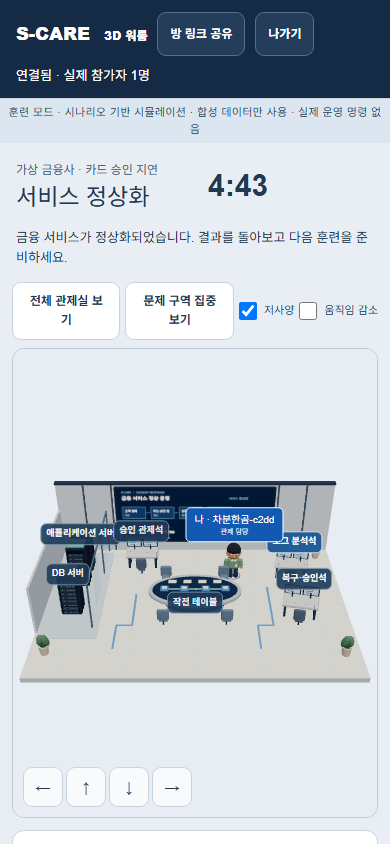
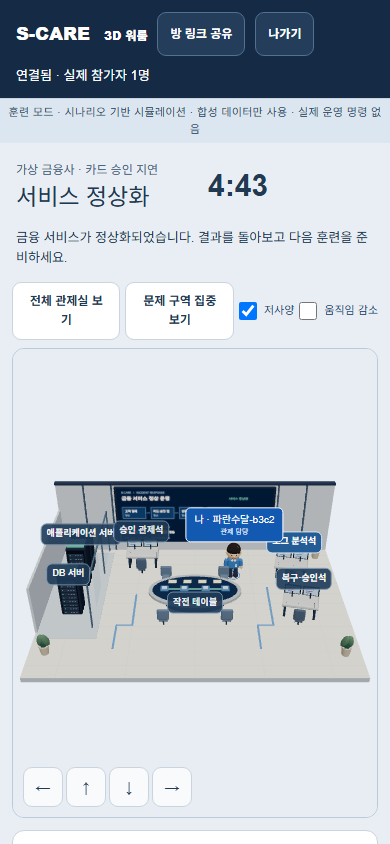
Keep room participants visually distinct across reconnects

diff --git a/frontend/tests/city-live.spec.ts b/frontend/tests/city-live.spec.ts
@@ -16,6 +16,7 @@ test('two independent contexts share city, clues and timer; isolate rooms, dupli
   const pa=await a.newPage(),pb=await b.newPage(),pc=await c.newPage();for(const p of [pa,pb,pc])p.on('pageerror',e=>errors.push(e.message));
   await join(pa,'관제 하나','카드 운영팀');await join(pb,'분석 둘','카드 운영팀');await join(pc,'다른 방','separate');
   for(const p of [pa,pb]){await expect(p.locator('[data-player-id]')).toHaveCount(2);for(const avatar of await p.locator('[data-player-id]').all())await expect(avatar).toBeVisible();}await expect(pc.locator('[data-player-id]')).toHaveCount(1);
+  const appearance=await pa.locator('.wr-name.self').getAttribute('data-appearance');expect(await pb.locator('.wr-name.self').getAttribute('data-appearance')).not.toBe(appearance);
   const autoName=await pa.locator('.wr-name.self').innerText();expect(await pb.locator('.wr-name.self').innerText()).not.toBe(autoName);
   const chatRevision=await pa.evaluate(()=>(window as any).__cityTraining.revision);await pa.getByLabel('팀에게 메시지',{exact:true}).fill('DB는 정상입니다. 배포 로그를 확인해 주세요.');await pa.getByRole('button',{name:'보내기',exact:true}).click();await expect(pb.getByRole('log',{name:'팀 대화 기록'})).toContainText('DB는 정상입니다.');await expect(pb.locator('.mc-speech')).toContainText('DB는 정상입니다.');await expect(pc.getByRole('log',{name:'팀 대화 기록'})).not.toContainText('DB는 정상입니다.');expect(await pa.evaluate(()=>(window as any).__cityTraining.revision)).toBe(chatRevision);await pb.evaluate(()=>window.scrollTo(0,0));await pb.screenshot({path:'test-results/mission-control-chat.png',fullPage:true});
   const id=await pa.locator('.wr-name.self').getAttribute('data-player-id'),remote=pb.locator(`[data-player-id="${id}"]`),before=await remote.getAttribute('data-position');await pa.locator('h1').click();await pa.keyboard.down('d');await expect.poll(()=>remote.getAttribute('data-position')).not.toBe(before);await pa.keyboard.up('d');
@@ -32,7 +33,7 @@ test('two independent contexts share city, clues and timer; isolate rooms, dupli
   await pa.getByRole('button',{name:'여기 확인해 주세요',exact:true}).click();await expect.poll(()=>pb.evaluate(()=>(window as any).__cityTraining.pings.length)).toBe(1);
   await pa.screenshot({path:'test-results/city-team-clues.png'});
   const late=await c.newPage();await join(late,'중간 합류','카드 운영팀','CAUSE');await expect(late.locator('.city-clue.shared')).toHaveCount(4);expect(await late.evaluate(()=>(window as any).__cityTraining.deadline)).toBe(await pa.evaluate(()=>(window as any).__cityTraining.deadline));await late.close();
-  await pa.evaluate(()=>(window as any).__citySockets.at(-1).close());await expect(pa.locator('.city-connection')).toContainText('재접속');await expect(pa.locator('.city-connection')).toContainText('연결됨',{timeout:20000});await stage(pa,'CAUSE');await expect(pa.getByRole('log',{name:'팀 대화 기록'})).toContainText('DB는 정상입니다.');expect(await pa.locator('.wr-name.self').innerText()).toBe(autoName);await expect(pa.locator('.city-clue.shared')).toHaveCount(4);expect(await pa.locator('.wr-name.self').getAttribute('data-player-id')).toBe(id);
+  await pa.evaluate(()=>(window as any).__citySockets.at(-1).close());await expect(pa.locator('.city-connection')).toContainText('재접속');await expect(pa.locator('.city-connection')).toContainText('연결됨',{timeout:20000});await stage(pa,'CAUSE');await expect(pa.getByRole('log',{name:'팀 대화 기록'})).toContainText('DB는 정상입니다.');expect(await pa.locator('.wr-name.self').innerText()).toBe(autoName);expect(await pa.locator('.wr-name.self').getAttribute('data-appearance')).toBe(appearance);await expect(pa.locator('.city-clue.shared')).toHaveCount(4);expect(await pa.locator('.wr-name.self').getAttribute('data-player-id')).toBe(id);
   // Departure leaves evidence intact; remaining participant can take every role.
   await pb.getByRole('button',{name:'나가기',exact:true}).click();await expect(pb.getByRole('button',{name:'워룸 입장',exact:true})).toBeVisible();await expect(pa.locator('[data-player-id]')).toHaveCount(1);await chooseCause(pa);
   const exercise=await pa.evaluate(()=>(window as any).__cityTraining);await pa.evaluate(t=>(window as any).__citySockets.at(-1).send(JSON.stringify({type:'training',op:'execute',missionId:t.id,revision:t.revision})),exercise);await expect(pa.locator('.city-alert')).toContainText('현재 단계');await stage(pa,'TRIAL');await pa.getByRole('button',{name:'닫기',exact:true}).click();

diff --git a/frontend/components/war-room/operator-avatar.tsx b/frontend/components/war-room/operator-avatar.tsx
@@ -9,7 +9,8 @@ function Ball({at,scale,color}:{at:[number,number,number];scale:[number,number,n
 export default function OperatorAvatar({player,self,reduced,role,speech,portal}:{player:Player;self:boolean;reduced:boolean;role:string;speech?:string;portal?:RefObject<HTMLElement>}){
  const root=useRef<THREE.Group>(null),legs=useRef<(THREE.Group|null)[]>([]),arms=useRef<(THREE.Group|null)[]>([]),caption=useRef<HTMLSpanElement>(null),last=useRef(new THREE.Vector3(player.x,0,player.z)),moving=useRef(0);
  let hash=0;for(const c of player.id)hash=(hash*31+c.charCodeAt(0))>>>0;
- const shirt=['#4a83bb','#799679','#d18a65','#8882ad'][hash%4],skin=['#ebbc97','#d8a783','#c79070'][hash%3],hair=['#302a2a','#4a3126','#292e37'][hash%3],longHair=hash%3===1;
+ const style=player.appearance??hash;
+ const shirt=new THREE.Color(['#4a83bb','#799679','#d18a65','#8882ad'][style%4]).offsetHSL(Math.floor((style%20)/4)*.045,0,0).getStyle(),skin=['#ebbc97','#d8a783','#c79070'][hash%3],hair=['#302a2a','#4a3126','#292e37'][style%3],longHair=style%3===1;
  useFrame((state,dt)=>{if(!root.current)return;const target=new THREE.Vector3(player.x,.06,player.z);root.current.position.lerp(target,1-Math.exp(-dt*15));const angle=THREE.MathUtils.euclideanModulo(player.direction-root.current.rotation.y+Math.PI,Math.PI*2)-Math.PI;root.current.rotation.y+=angle*(1-Math.exp(-dt*12));if(last.current.distanceTo(target)>.008)moving.current=.18;else moving.current=Math.max(0,moving.current-dt);last.current.copy(target);const stride=!reduced&&moving.current>0?Math.sin(state.clock.elapsedTime*10)*.4:0;legs.current.forEach((l,i)=>{if(l)l.rotation.x=stride*(i?-1:1);});arms.current.forEach((a,i)=>{if(a){a.rotation.x=-stride*(i?-1:1);a.rotation.z=(i?1:-1)*(speech&&!reduced?.35+Math.sin(state.clock.elapsedTime*4)*.12:.09);}});if(caption.current){caption.current.dataset.position=`${root.current.position.x.toFixed(2)},${root.current.position.z.toFixed(2)}`;caption.current.dataset.direction=root.current.rotation.y.toFixed(2);}});
  return <group ref={root} position={[player.x,.06,player.z]}>
   {[-1,1].map((side,i)=><group key={side} ref={v=>{legs.current[i]=v;}} position={[side*.19,.68,0]}><RoundedBox position={[0,-.26,0]} args={[.3,.64,.34]} radius={.11} smoothness={3} castShadow><meshStandardMaterial color="#34435a"/></RoundedBox><Ball at={[0,-.57,.1]} scale={[.19,.12,.3]} color="#283448"/><RoundedBox position={[0,-.66,.1]} args={[.35,.055,.5]} radius={.02} smoothness={2}><meshStandardMaterial color="#ded9d0"/></RoundedBox></group>)}
@@ -26,6 +27,6 @@ export default function OperatorAvatar({player,self,reduced,role,speech,portal}:
   {[-1,1].map(side=><mesh key={side} position={[side*.1,1.45,.27]} rotation={[0,0,side*.6]}><boxGeometry args={[.13,.17,.035]}/><meshStandardMaterial color="#ecf0ec"/></mesh>)}
   <mesh position={[.18,1.02,.276]}><boxGeometry args={[.14,.2,.028]}/><meshStandardMaterial color="#f5f4e9"/></mesh><mesh position={[.18,1.05,.297]}><boxGeometry args={[.08,.045,.01]}/><meshBasicMaterial color="#317bc3"/></mesh>
   <mesh rotation={[-Math.PI/2,0,0]} position={[0,.01,0]}><ringGeometry args={[.48,.53,32]}/><meshBasicMaterial color={self?'#256bd1':'#869aaf'}/></mesh>
-  <Html portal={portal} position={[0,2.75,0]} center style={{pointerEvents:'none',transform:'translate(-50%, -100%)'}}><div className="wr-avatar-caption">{speech&&<span className="mc-speech">{speech}</span>}<span ref={caption} data-player-id={player.id} className={`wr-name ${self?'self':''}`}>{self?'나 · ':''}{player.name}<small className="city-avatar-role">{role}</small></span></div></Html>
+  <Html portal={portal} position={[0,2.75,0]} center style={{pointerEvents:'none',transform:'translate(-50%, -100%)'}}><div className="wr-avatar-caption">{speech&&<span className="mc-speech">{speech}</span>}<span ref={caption} data-player-id={player.id} data-appearance={style} className={`wr-name ${self?'self':''}`}>{self?'나 · ':''}{player.name}<small className="city-avatar-role">{role}</small></span></div></Html>
  </group>;
 }

diff --git a/frontend/components/war-room/types.ts b/frontend/components/war-room/types.ts
@@ -1,7 +1,7 @@
 export type Node={id:string;name:string;kind:string;status:string;availability:number;latency:number;errorRate:number;cpu:number;memory:number};
 export type Edge={source:string;target:string;relation:string;group:string};
 export type Snapshot={nodes:Node[];edges:Edge[];faults:{target:string;type:string}[]};
-export type Player={id:string;name:string;role:string;floor:number;x:number;z:number;direction:number;contributions:number};
+export type Player={id:string;name:string;role:string;floor:number;x:number;z:number;direction:number;contributions:number;appearance?:number};
 export type Result={strategyId:string;outcome:string;recoverySeconds:number;availability:number;latency:number;errorRate:number;residualRisk:number;steps:{action:string;target:string;reason:string;applied:boolean;snapshot:Snapshot}[];after:Snapshot};
 export type Run={id?:string;status:string;current:Snapshot;baseline?:Snapshot;faultSnapshot?:Snapshot;analysis?:{cause:string;target:string;source:string;reason:string;actualModelCall:boolean;modelCallAttempted?:boolean;evidence:Node[];affected:string[]};generation?:{source:string;reason:string};strategies?:{id:string;name:string;risk:string;preconditions:string;expectedEffect:string}[];results?:Result[];recommendation?:{strategyId:string;reason:string};selectedStrategy?:string};
 export type IncidentView={stage:string;status:string;node:string;version:number;eventId:number;approved:boolean;completedSteps:string[];totalSteps:number;aiSource:string;timeline?:{id:number;stage:string;state:string}[]};

diff --git a/backend/src/main/java/demo/brain/WarRoom.java b/backend/src/main/java/demo/brain/WarRoom.java
@@ -20,9 +20,9 @@ public class WarRoom {
  record Ticket(String guest,long expires){}
  static class Guest {
   String id=UUID.randomUUID().toString(), name="게스트-"+UUID.randomUUID().toString().substring(0,4), room, connection, role="분석";
-  long expires, lastSeen, window, lastMove, lastChat; int count, contributions, floor=1; double x,z,direction;
+  long expires, lastSeen, window, lastMove, lastChat; int count, contributions, appearance, floor=1; double x,z,direction;
   Guest(String room,long now){this.room=room;expires=now+3_600_000;lastSeen=now;}
-  Map<String,Object> view(){return Map.of("id",id,"name",name,"role",role,"floor",floor,"x",x,"z",z,"direction",direction,"contributions",contributions);}
+  Map<String,Object> view(){return Map.of("id",id,"name",name,"role",role,"floor",floor,"x",x,"z",z,"direction",direction,"contributions",contributions,"appearance",appearance);}
  }
  static class Room {
   final CityTraining training=new CityTraining();
@@ -48,7 +48,7 @@ public class WarRoom {
  private void persist(Room r){store.tx(()->{if(store.db.update("UPDATE war_rooms SET run_id=?,incident_id=?,mapped_node=?,updated_at=? WHERE id=?",r.runId,r.incidentId,r.mappedNode,Store.now(),r.id)==0)store.db.update("INSERT INTO war_rooms(id,run_id,incident_id,mapped_node,updated_at) VALUES (?,?,?,?,?)",r.id,r.runId,r.incidentId,r.mappedNode,Store.now());return null;});}
  public synchronized Map<String,Object> join(String id,String resume){
   enabled();cleanup();room(id);long now=System.currentTimeMillis();String token=resume;Guest g=resume==null?null:guests.get(hash(resume));
-  if(g==null||!g.room.equals(id)){if(guests.size()>=160)throw new IllegalStateException("게스트 세션 한도에 도달했습니다. 잠시 후 다시 시도하세요.");if(guests.values().stream().filter(p->p.room.equals(id)).count()>=CAPACITY)throw new IllegalStateException("방 정원은 20명입니다. 잠시 후 다시 시도하세요.");g=new Guest(id,now);if(id.startsWith("city-")){String base=List.of("파란수달","차분한곰","든든한펭귄","빠른여우").get(Math.floorMod(g.id.hashCode(),4))+"-"+g.id.substring(0,4);Set<String> used=new HashSet<>();guests.values().stream().filter(p->p.room.equals(id)).forEach(p->used.add(p.name));String chosen=base;for(int suffix=2;used.contains(chosen);suffix++)chosen=base+"-"+suffix;g.name=chosen;}token=secret();guests.put(hash(token),g);}
+  if(g==null||!g.room.equals(id)){if(guests.size()>=160)throw new IllegalStateException("게스트 세션 한도에 도달했습니다. 잠시 후 다시 시도하세요.");if(guests.values().stream().filter(p->p.room.equals(id)).count()>=CAPACITY)throw new IllegalStateException("방 정원은 20명입니다. 잠시 후 다시 시도하세요.");g=new Guest(id,now);if(id.startsWith("city-")){Set<Integer> styles=new HashSet<>();guests.values().stream().filter(p->p.room.equals(id)).forEach(p->styles.add(p.appearance));while(styles.contains(g.appearance))g.appearance++;String base=List.of("파란수달","차분한곰","든든한펭귄","빠른여우").get(g.appearance%4)+"-"+g.id.substring(0,4);Set<String> used=new HashSet<>();guests.values().stream().filter(p->p.room.equals(id)).forEach(p->used.add(p.name));String chosen=base;for(int suffix=2;used.contains(chosen);suffix++)chosen=base+"-"+suffix;g.name=chosen;}token=secret();guests.put(hash(token),g);}
   // Every socket gets a one-use, 20-second admission ticket; the resumable secret stays in an HttpOnly BFF cookie.
   String ticket=secret();String key=hash(token);tickets.entrySet().removeIf(e->e.getValue().guest().equals(key));tickets.put(hash(ticket),new Ticket(key,now+20_000));
   return Map.of("resume",token,"ticket",ticket,"id",g.id,"name",g.name,"expiresAt",g.expires);

diff --git a/backend/src/test/java/demo/brain/WarRoomIntegrationTest.java b/backend/src/test/java/demo/brain/WarRoomIntegrationTest.java
@@ -124,7 +124,7 @@ class WarRoomIntegrationTest {
   var isolated=new WarRoom(store,lab,knowledge,true);
   var a=isolated.join("city-control",null);var b=isolated.join("city-control",null);
   var ga=isolated.connect(a.get("ticket").toString(),"control-a");var gb=isolated.connect(b.get("ticket").toString(),"control-b");
-  assertThat(ga.name).doesNotStartWith("게스트-").isNotEqualTo(gb.name);
+  assertThat(ga.name).doesNotStartWith("게스트-").isNotEqualTo(gb.name);assertThat(ga.appearance).isEqualTo(0);assertThat(gb.appearance).isEqualTo(1);
   long revision=((Number)isolated.trainingState("control-a").get("revision")).longValue();
   isolated.input("control-a",store.json.valueToTree(Map.of("type","chat","text","<b>가상 로그 확인</b>","player",gb.id,"name",gb.name)));
   var messages=store.json.valueToTree(isolated.state("city-control").get("chat"));assertThat(messages.get(0).path("player").asText()).isEqualTo(ga.id);assertThat(messages.get(0).path("name").asText()).isEqualTo(ga.name);

diff --git a/docs/CITY_TRAINING.md b/docs/CITY_TRAINING.md
@@ -45,13 +45,13 @@ cd ..
 
 - 중앙 작전 테이블, 대형 관측 화면, 왼쪽 앱/DB 서버실, 오른쪽 로그 분석·복구·승인석. 전체 공간에 맞춘 카메라와 빠른 이동.
 - 복장 색상과 머리 모양이 구분되는 캐릭터, 보행·대화 제스처, 실제 참가자 이름표와 역할.
-- 서버가 자동 이름을 배정한다. 같은 방 안의 이름 충돌을 검사하며 재접속 시 유지한다. 기존 게스트는 세션 이름을 유지할 수 있다.
+- 서버가 자동 이름과 방별 고유 외형 번호를 배정한다. 입장 순서에 따라 복장·머리를 구분하고 기존 참가자의 외형을 바꾸지 않는다. 같은 방 안의 이름 충돌을 검사하며 재접속 시 유지한다. 기존 게스트는 세션 이름을 유지할 수 있다.
 - 방 이름은 NFKC, 공백 정리, 소문자 정규화 후 일치시킨다. 기존 영문 링크는 유지하고 한글 이름은 SHA-256 기반 방 ID로 매핑한다. 방 이름은 접근 암호가 아니다.
 - 기존 WebSocket chat/collaboration을 재사용한 텍스트 대화와 6.5초 말풍선. 발신자 ID·이름은 서버에서 결정하고 240자·1초 간격·60개 이력 제한을 적용한다. 음성 통화는 구현하지 않았다. 대화는 미션 revision·승인·점수와 독립적이다.
 - 사건은 가상 금융사의 카드 승인 지연 1건이다. 최근 배포의 DB 연결 반환 누락 → 연결 풀 고갈 → 승인 요청 대기라는 기존 결정적 모델을 유지한다. 관제는 영향/DB 관측, 분석은 배포/오류 로그, 복구는 조치 시험/실행, 책임자는 근거 검토/훈련 승인을 맡는다. 실제 고객·금융기관 데이터나 운영 명령은 사용하지 않는다.
 - 배포 환경변수와 DB 마이그레이션 추가 없음. 훈련 및 대화는 서버 메모리 상태이며 재시작 시 초기화된다.
 
-이번 개편의 로컬 검증: 프로덕션 빌드 성공, 프런트엔드 단위 62개 통과, 백엔드 H2 182개 중 180개 통과/기존 선택 검사 2개 건너뜀, 관련 브라우저 15개 통과. 실제 서버에 독립 브라우저를 연결해 한글 방/자동 이름/텍스트 대화/말풍선/방 분리/재접속/협업 미션/1인 완료를 확인했다. 처음 협업 검사는 세 번째 브라우저의 3D 이름표 로딩 대기 5초가 만료되어 실패했다. 초기 로딩 대기를 20초로 조정하고 그림자 해상도를 줄인 후 전체 관련 검사를 다시 통과했다. 물리 기기 간 GPU 성능은 측정하지 않았다.
+이번 개편의 로컬 검증: 프로덕션 빌드 성공, 프런트엔드 단위 62개 통과, 백엔드 H2 182개 중 180개 통과/기존 선택 검사 2개 건너뜀, 관련 브라우저 15개 통과. 실제 서버에 독립 브라우저를 연결해 한글 방/자동 이름/텍스트 대화/말풍선/방 분리/재접속/협업 미션/1인 완료를 확인했다. 처음 협업 검사는 세 번째 브라우저의 3D 이름표 로딩 대기 5초가 만료되어 실패했다. 초기 로딩 대기를 20초로 조정하고 그림자 해상도를 줄인 후 전체 관련 검사를 다시 통과했다. 외형 배정 보완 후 빌드·백엔드 전체 검사와 실제 협업 검사 2개를 다시 통과했다. 물리 기기 간 GPU 성능은 측정하지 않았다.
 
 - [2인 관제실과 팀 대화](evidence/mission-control/team-chat.png)
 - [정상화 완료](evidence/mission-control/result.png)
